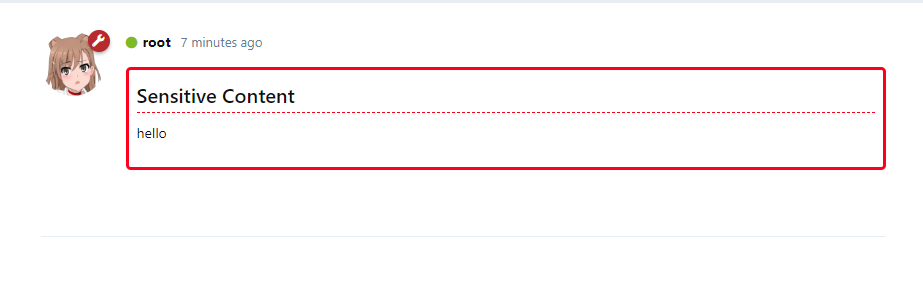
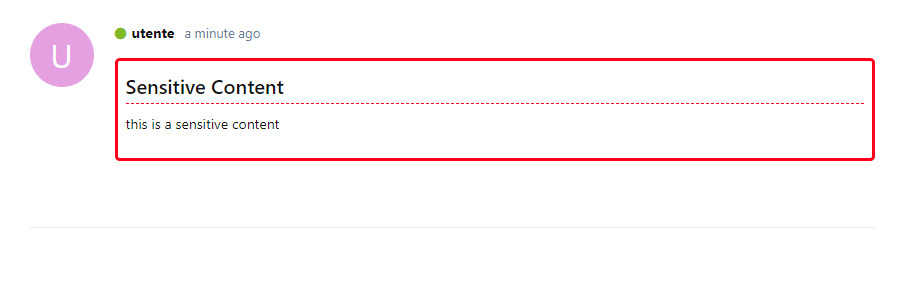
readme: update preview

diff --git a/README.md b/README.md
@@ -10,6 +10,8 @@
 
 **NOTE**: only allowed groups can see this element block.
 
+in this example, only admins are allowed to see this
+
 ![preview](screenshot.png)
 
 ## Install
